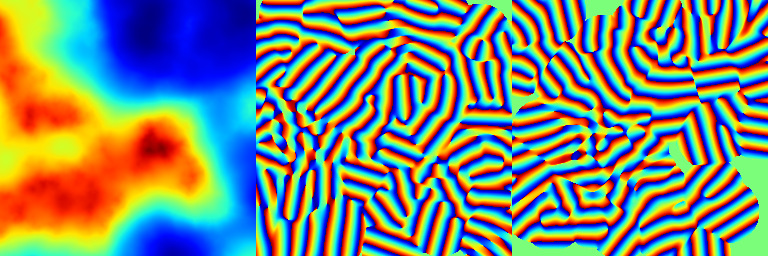
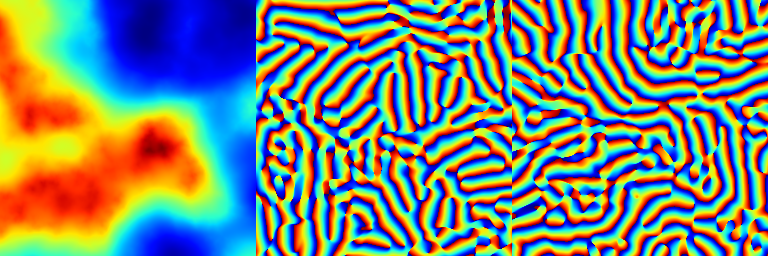
Add phase field documentation

diff --git a/examples/ex_phase_field/ex_phase_field.cpp b/examples/ex_phase_field/ex_phase_field.cpp
@@ -11,10 +11,12 @@ int main(void)
 
   float kp = 4.f;
   int   width = 64;
+
+  float density = 4.f;
   bool  rotate90 = true;
 
-  hmap::Array phi0 = hmap::phase_field(z, kp, width, ++seed);
-  hmap::Array phi1 = hmap::phase_field(z, kp, width, ++seed, -1, 1.f, rotate90);
+  hmap::Array phi0 = hmap::phase_field(z, kp, width, ++seed, -1, density);
+  hmap::Array phi1 = hmap::phase_field(z, kp, width, ++seed, -1, density, rotate90);
 
   hmap::remap(phi0);
   hmap::remap(phi1);
